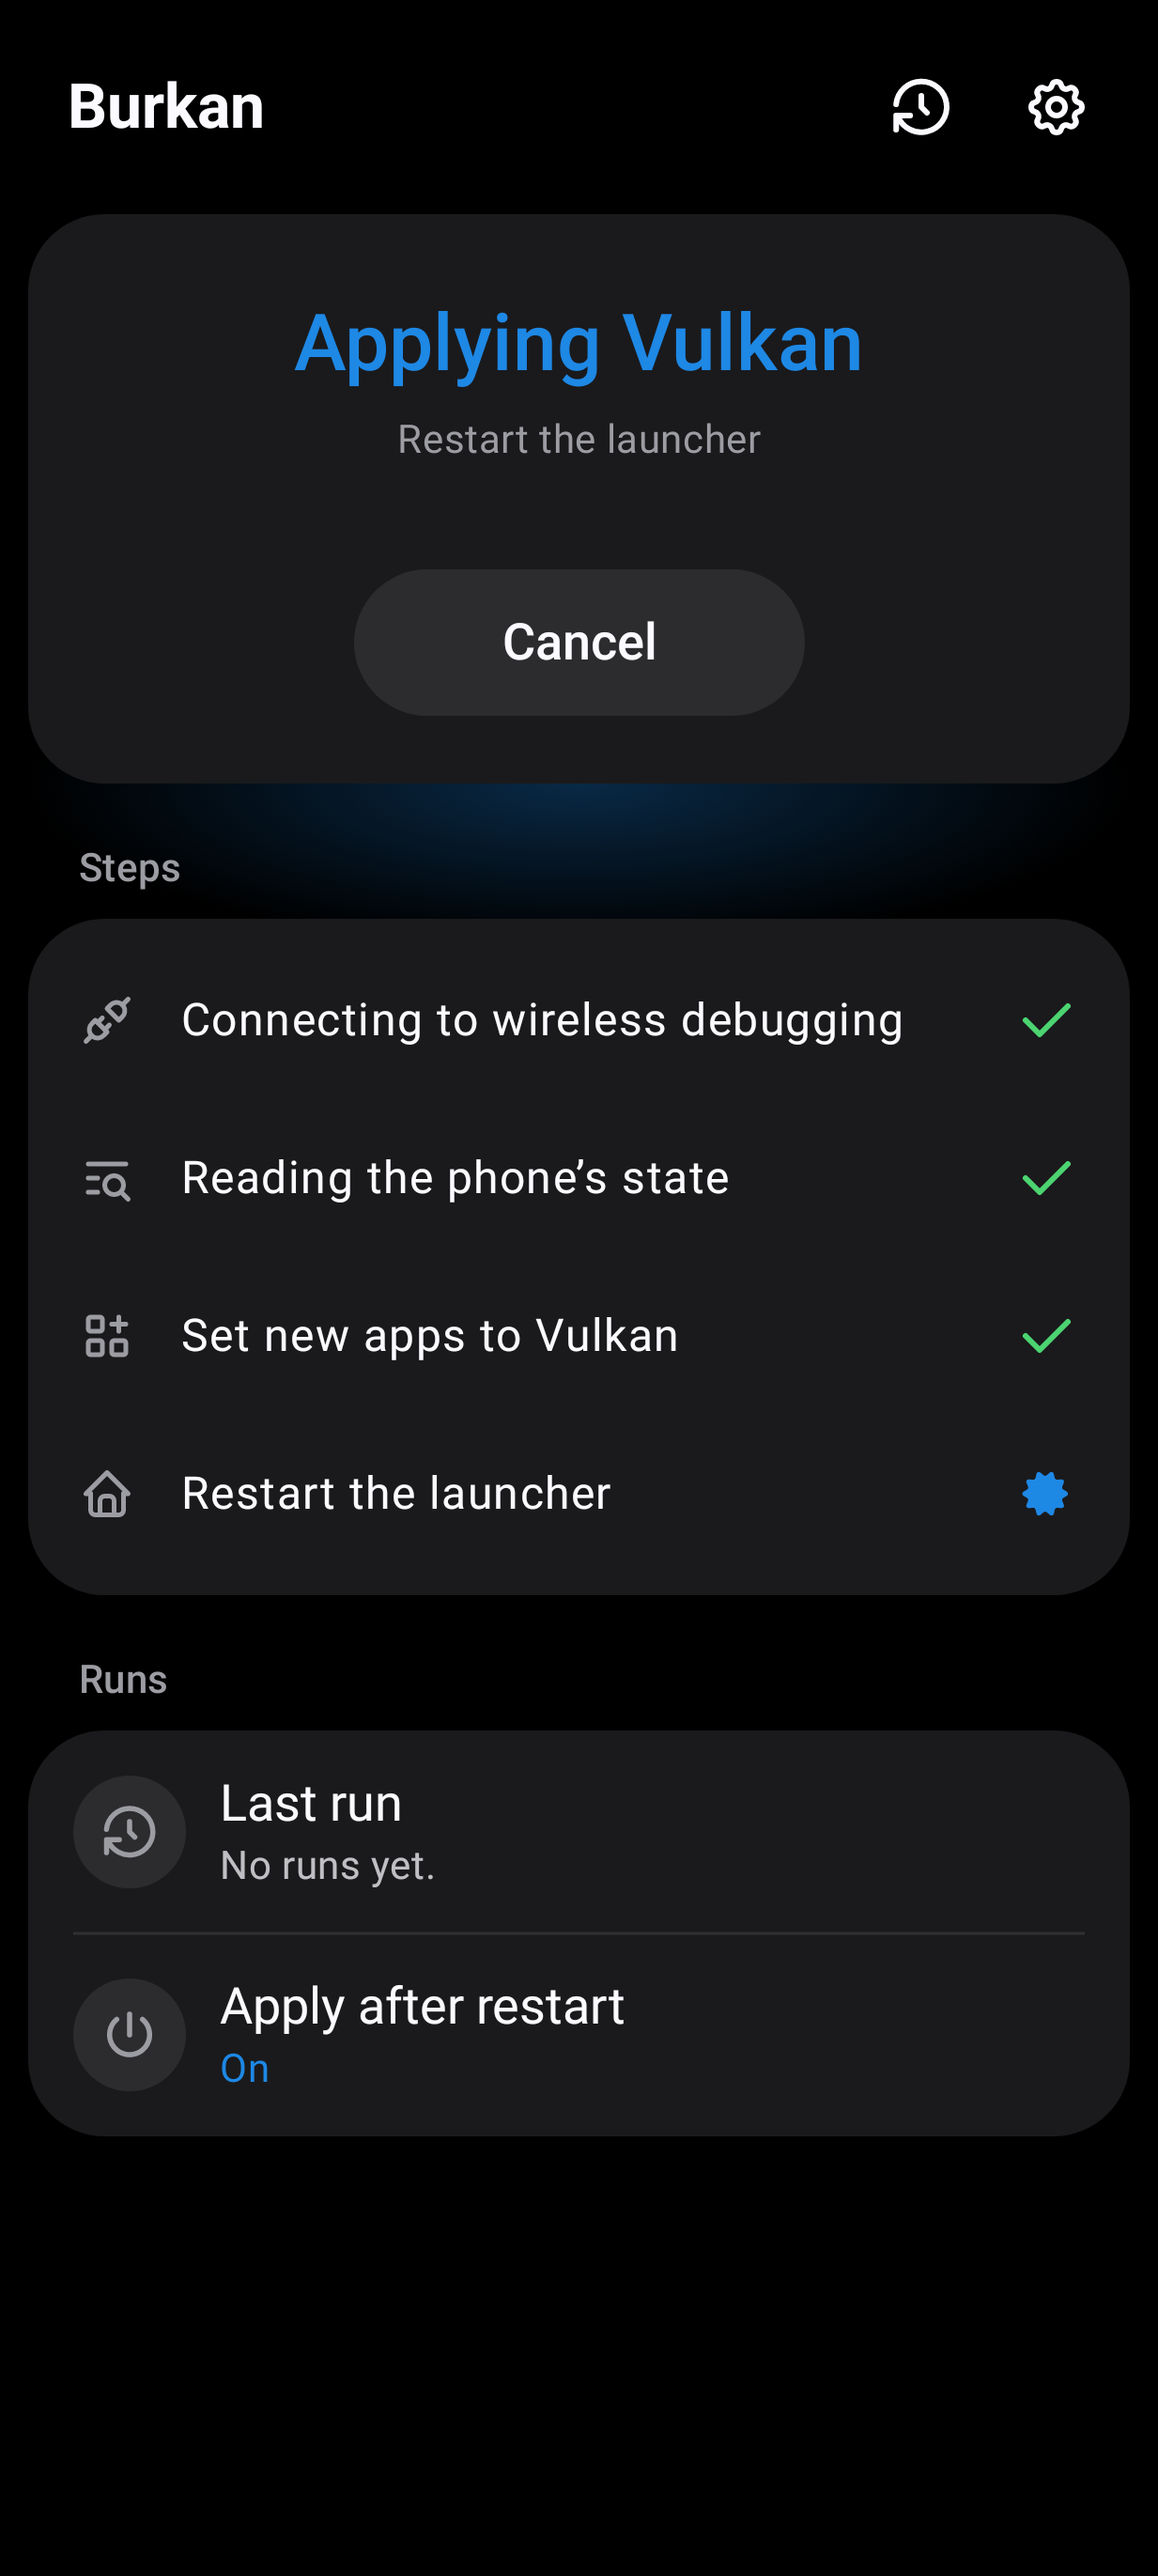
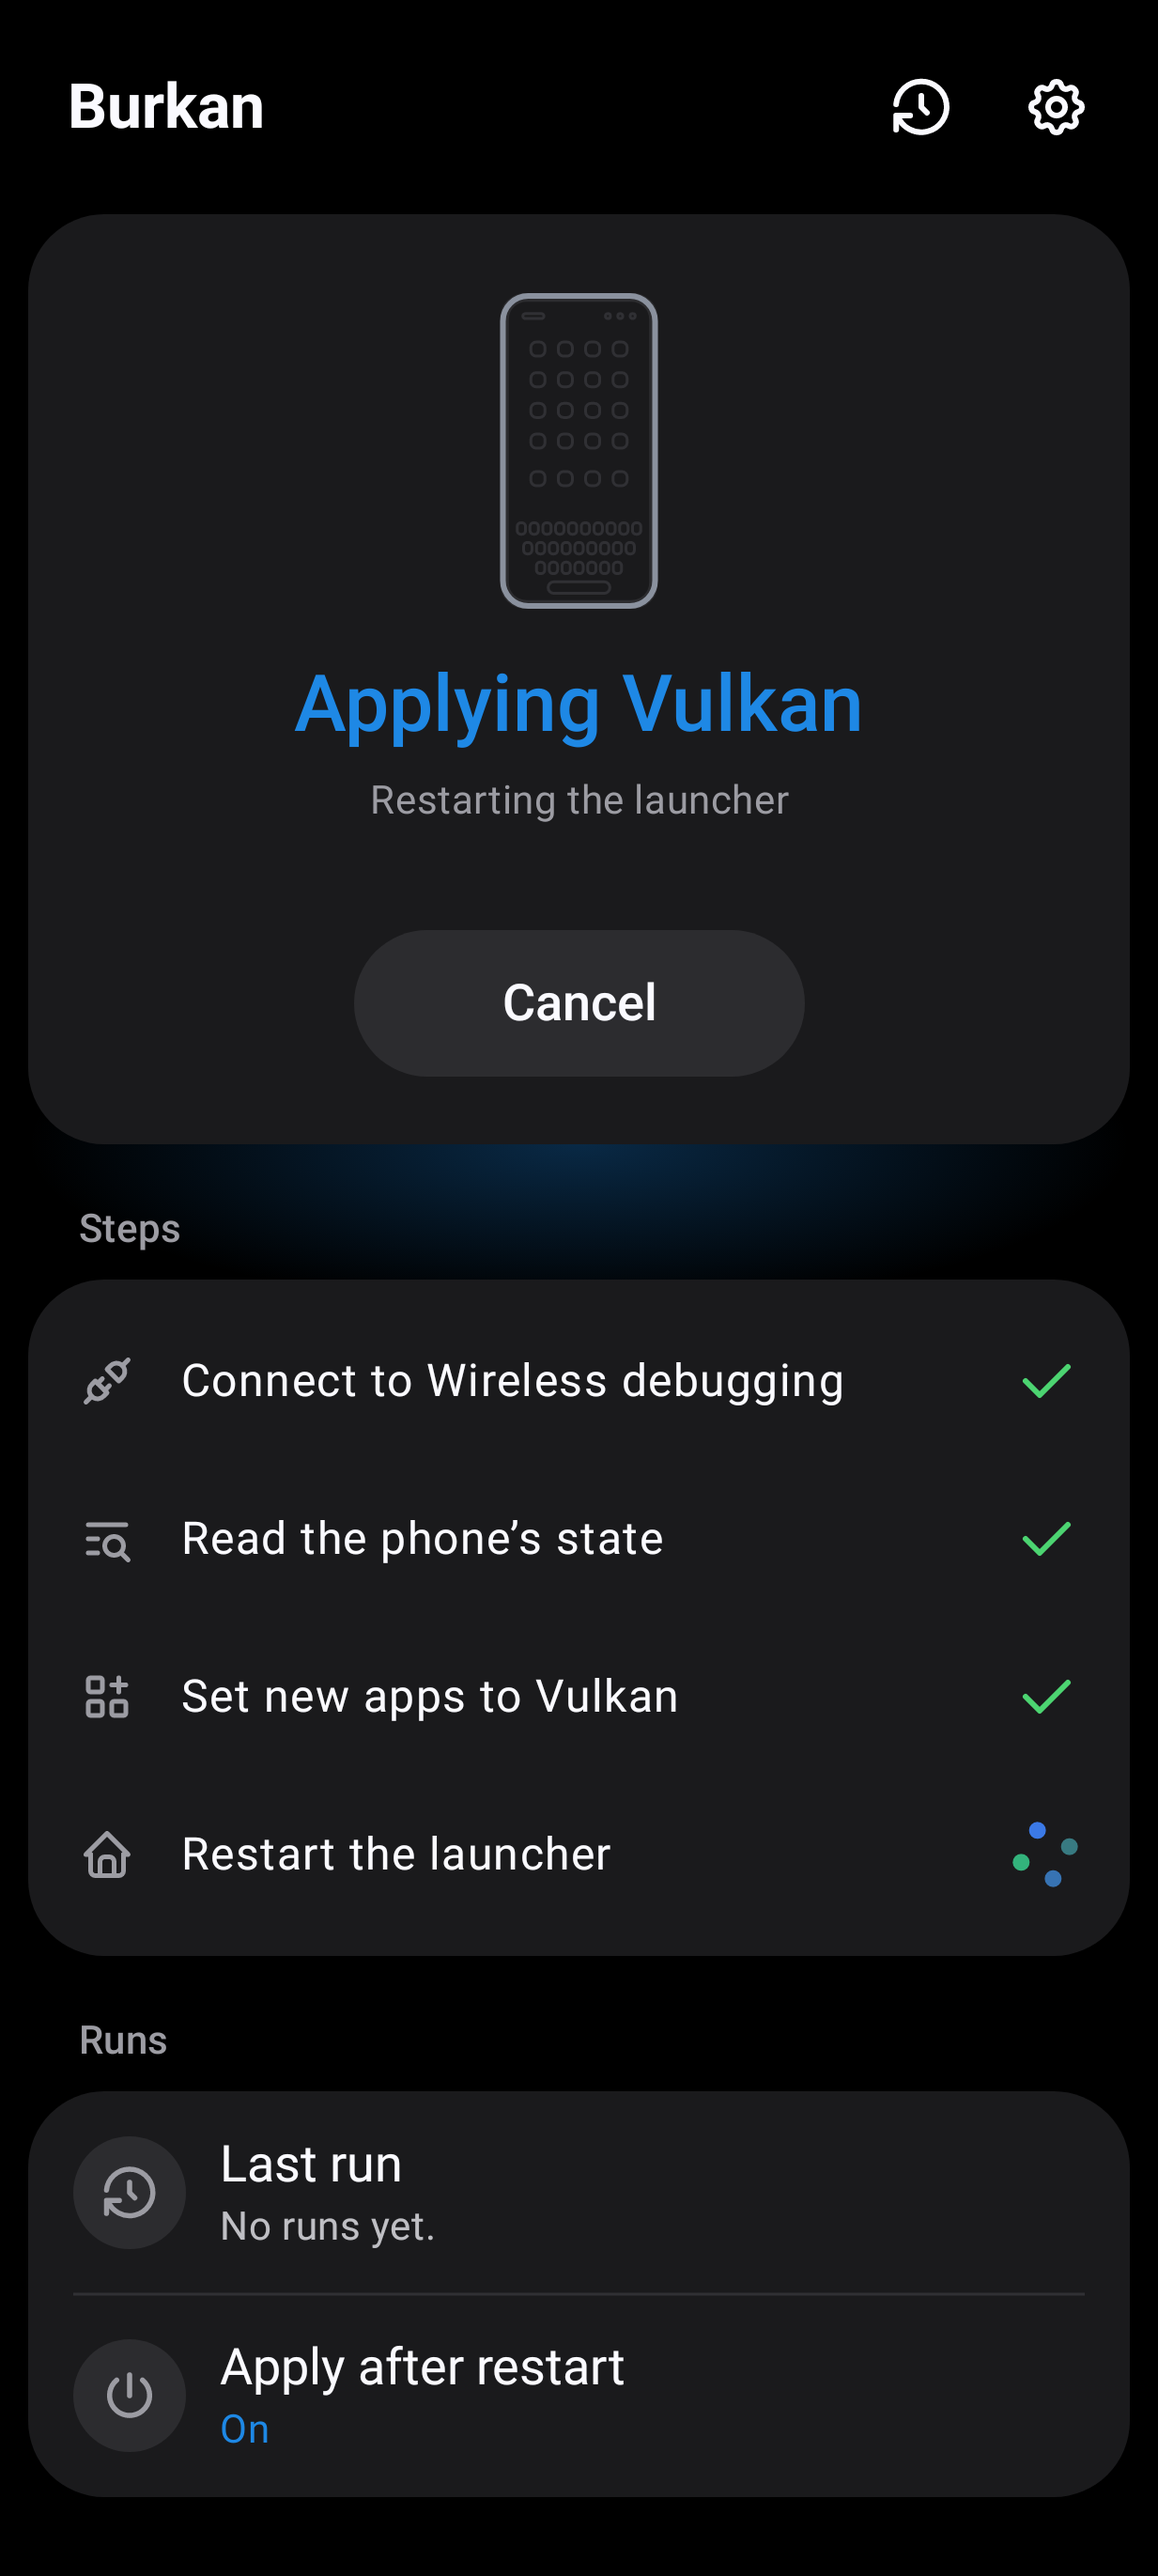
Show the current screens in the store listing
The store screenshots were last copied from the screenshot tests for
1.1.1, so F-Droid still showed the screens from before the redesign.

- Copy the current baselines over the six store screenshots.
- List refreshing them as a release step in docs/f-droid.md.

diff --git a/docs/f-droid.md b/docs/f-droid.md
@@ -46,10 +46,16 @@ release needs here:
 2. **A changelog** for each processor's version code, as
    `fastlane/metadata/android/en-US/changelogs/<versionCode>1.txt`, `…2.txt` and `…3.txt`, the same text in each.
    F-Droid shows each APK's with that APK.
-3. **The release itself, with `./gradlew :app:githubRelease`** from a clean `main`. It tags `v<versionName>` and
+3. **Screenshots that match the app**, whenever a screen has changed since the last release. F-Droid shows the
+   store listing from the tag it built, so screenshots updated after the tag wait for the next release. Copy the
+   current baselines from `app/src/test/screenshots` over `fastlane/metadata/android/en-US/images/phoneScreenshots`:
+   `HomeActiveOneUiDarkPreview` as `1.png`, `HomeRunningOneUiDarkPreview` as `2.png`, `SetupPairOneUiDarkPreview`
+   as `3.png`, `SettingsOneUiDarkPreview` as `4.png`, `LogExpandedOneUiDarkPreview` as `5.png` and
+   `HomeActiveDarkPreview` as `6.png`.
+4. **The release itself, with `./gradlew :app:githubRelease`** from a clean `main`. It tags `v<versionName>` and
    publishes the APKs under the names the recipe's `binary` lines expect. F-Droid compares its own builds with
    those APKs, so neither the tag nor an APK may change after the release.
-4. **Watching the build.** Once the bot has picked up the tag, the version shows on
+5. **Watching the build.** Once the bot has picked up the tag, the version shows on
    <https://monitor.f-droid.org/builds>, with its log if the build fails, and it reaches the package page when
    its build cycle is published. The bot's runs are on the same site, which is where to look if a tag has not
    been picked up within a few days.
